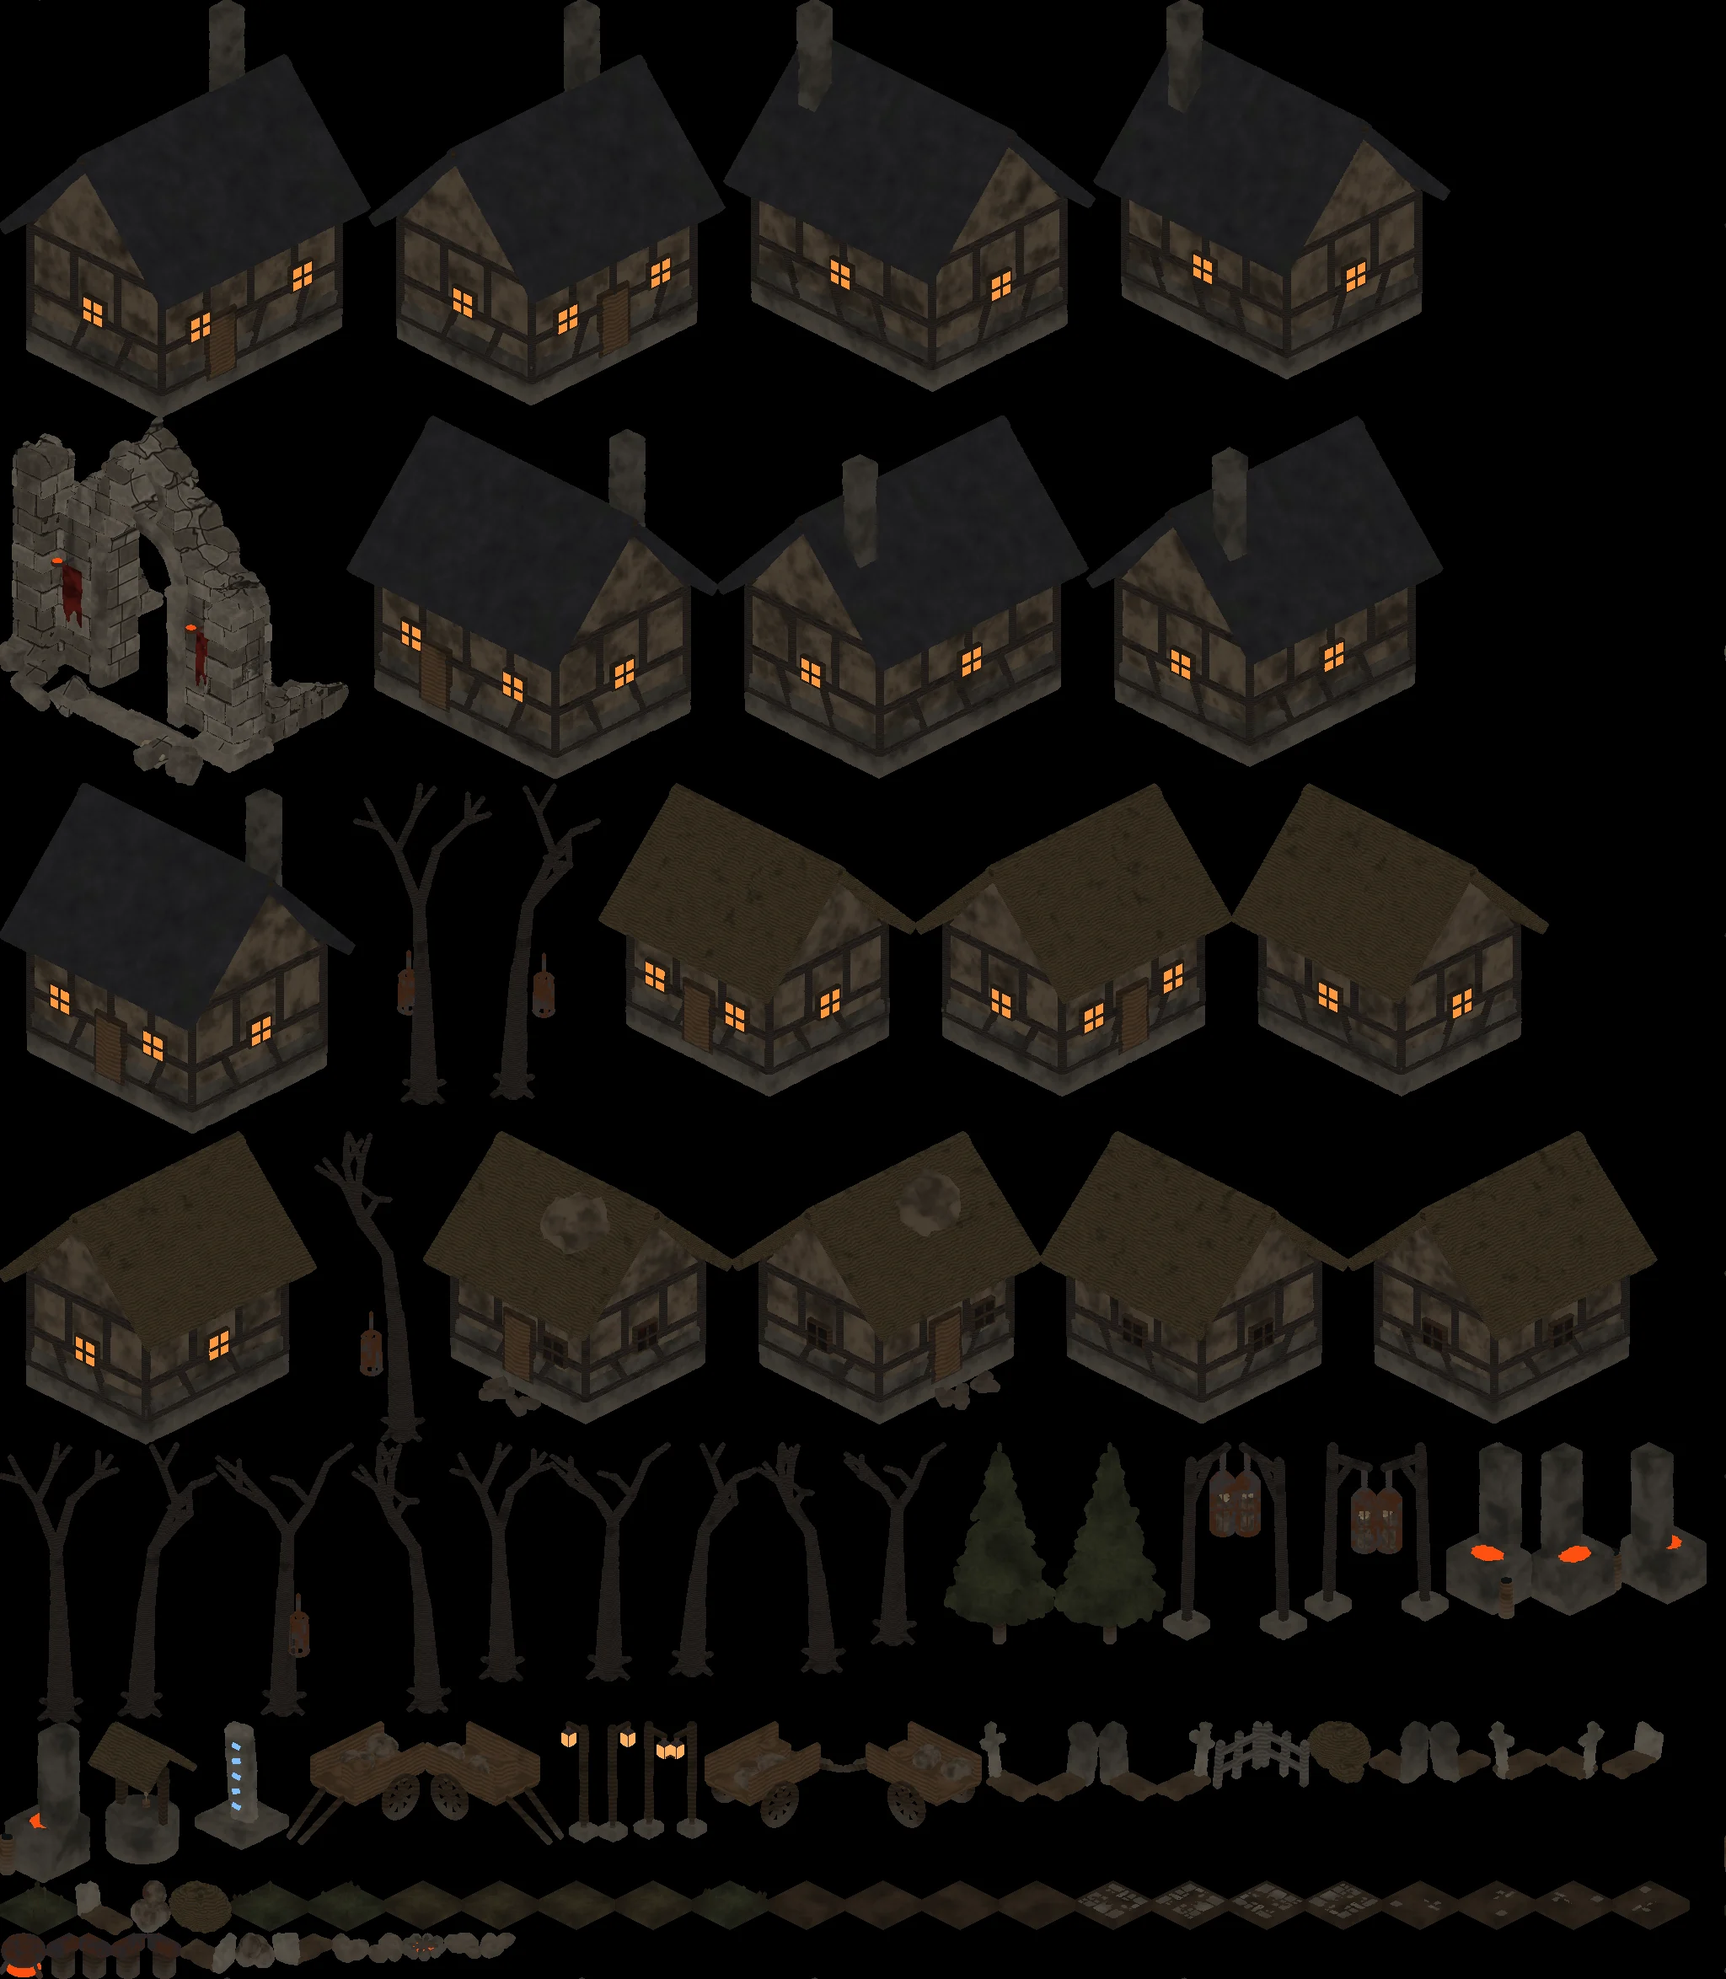
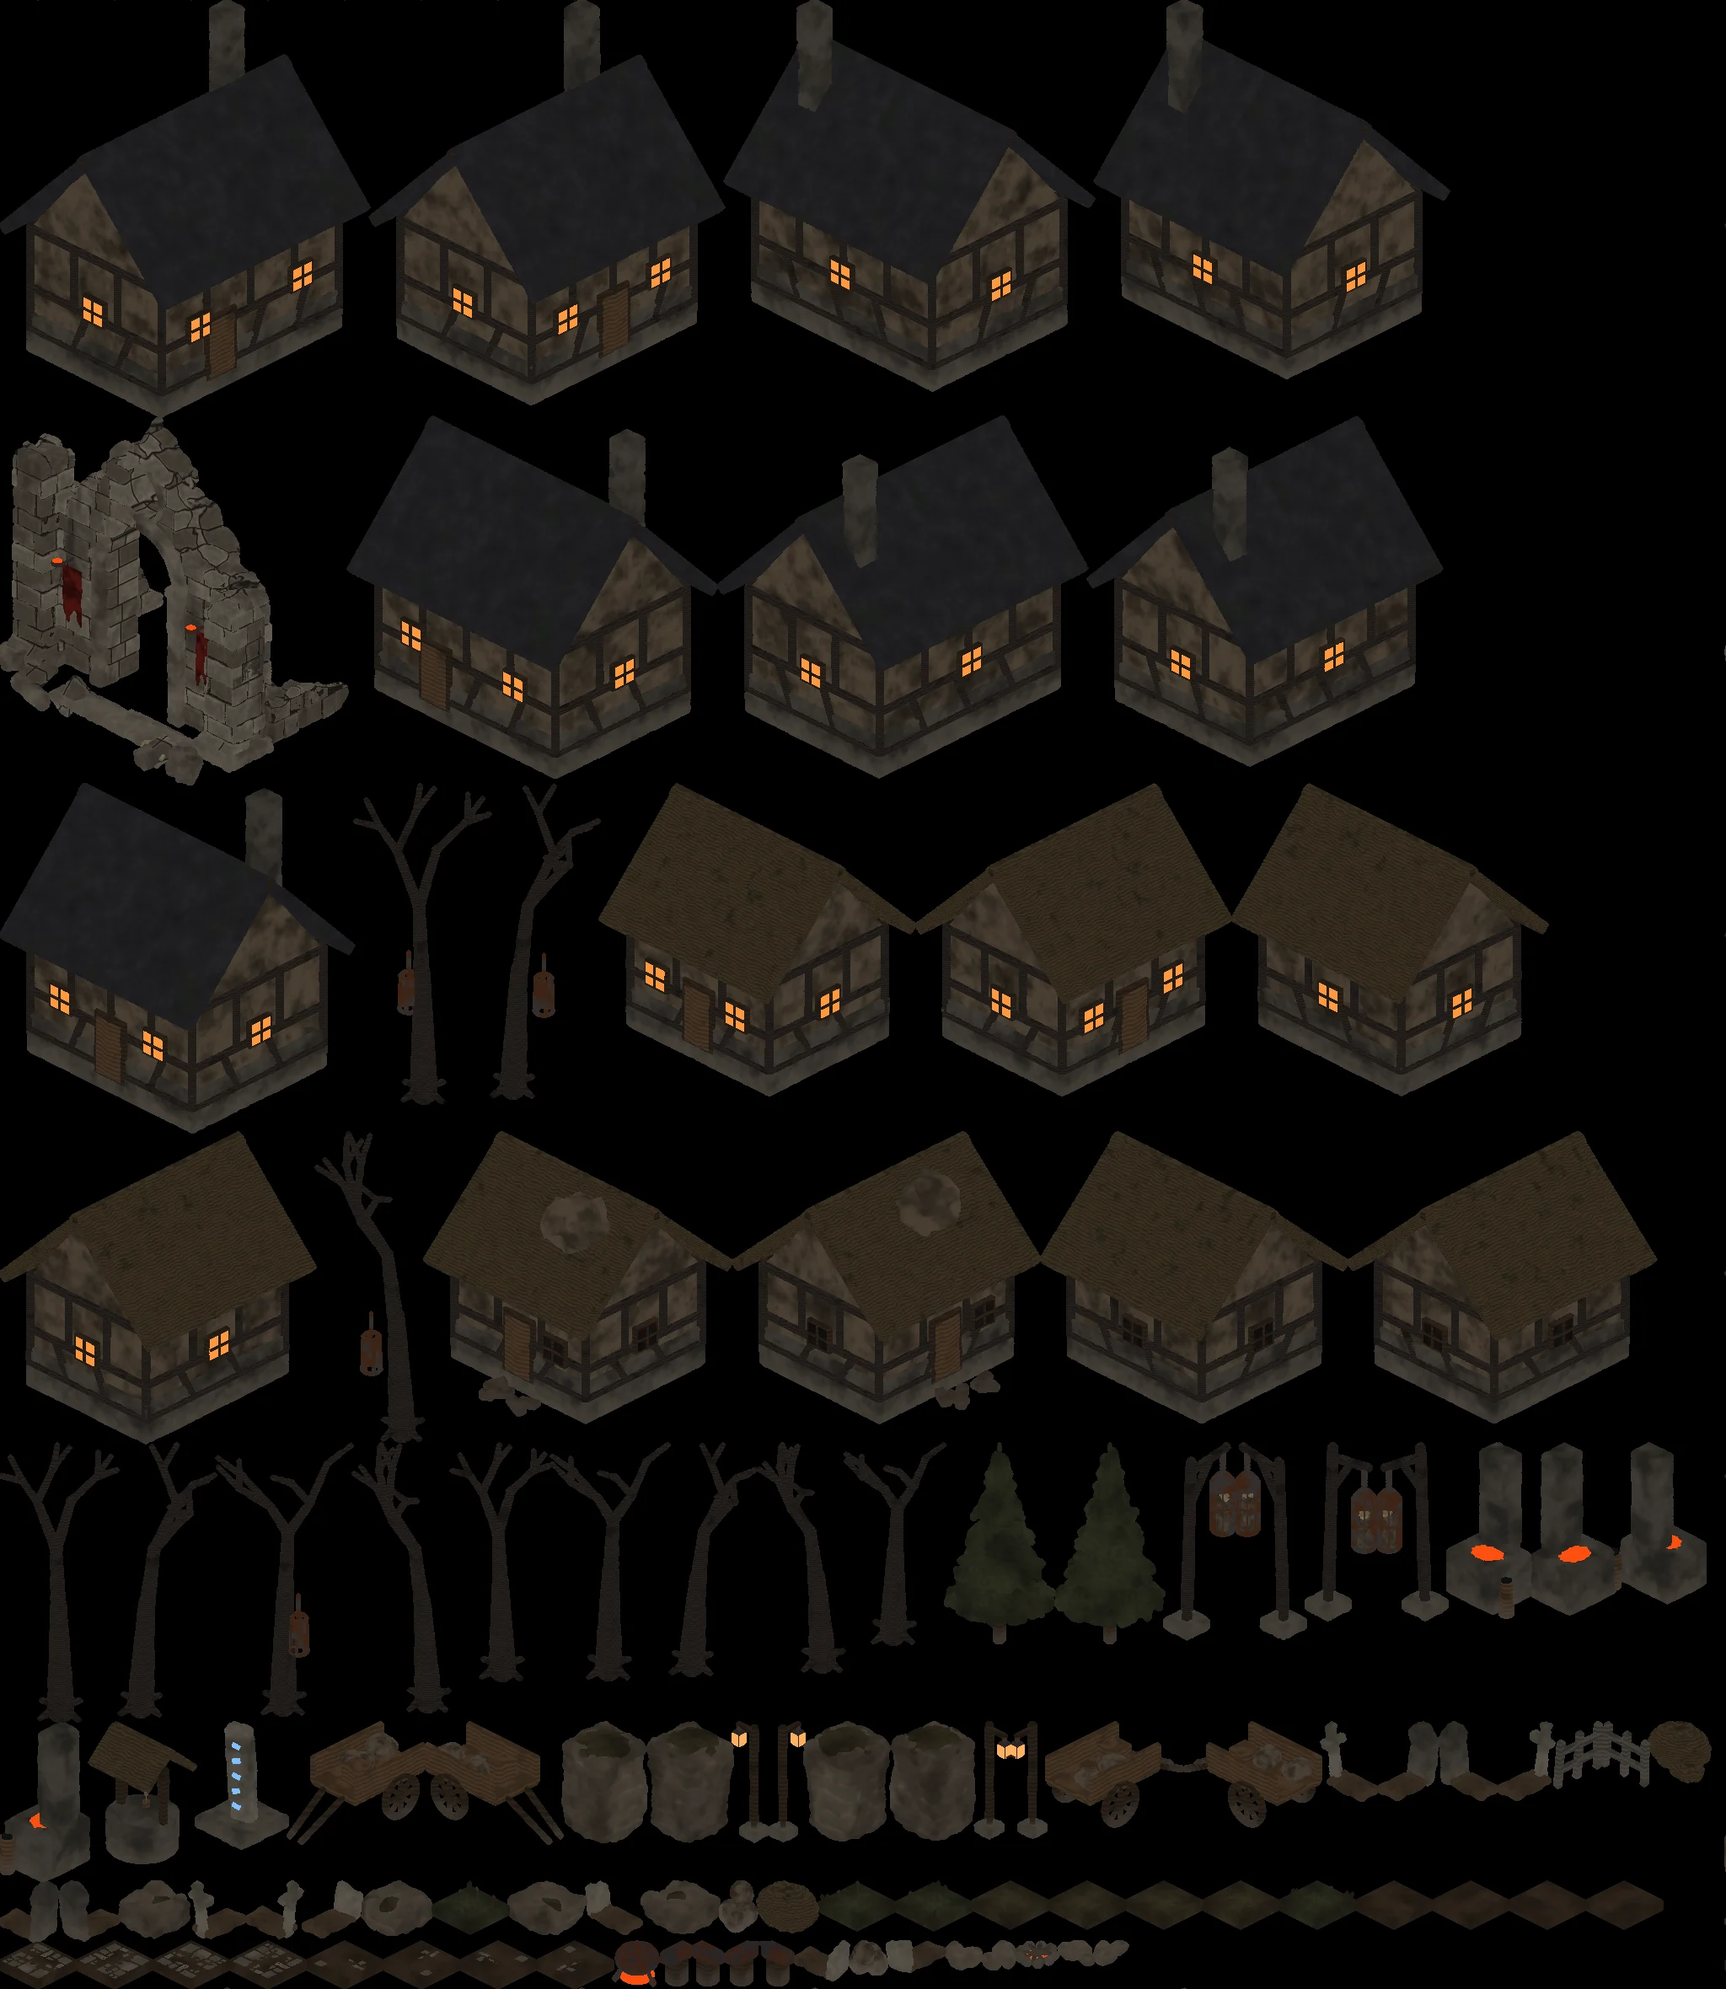
Ravenhollow 2026.11.11-214514: game files part 1
Claude-Session: https://claude.ai/code/session_016pcUSEpFhvC67ZhspsFvwM

diff --git a/game/assets/town_town.js b/game/assets/town_town.js
@@ -1,1 +1,1 @@
-META["town_town"]={"w":2048,"h":2348,"anims":{"grass":{"n":1,"loop":false,"anchor":[70,73],"dr":3,"cell":[140,156],"ndir":4,"frames":[[[457,2233,90,55,25,50]],[[548,2233,90,55,25,50]],[[639,2233,90,55,25,50]],[[730,2233,90,55,25,50]]],"dirs":[0,1,2,3],"ndirModel":4},"grass_b":{"n":1,"loop":false,"anchor":[70,73],"dr":3,"cell":[140,156],"ndir":4,"frames":[[[0,2233,90,61,25,44]],[[275,2233,90,57,25,48]],[[366,2233,90,57,25,48]],[[821,2233,90,55,25,50]]],"dirs":[0,1,2,3],"ndirModel":4},"mud":{"n":1,"loop":false,"anchor":[70,73],"dr":3,"cell":[140,156],"ndir":4,"frames":[[[912,2233,90,55,25,50]],[[1003,2233,90,55,25,50]],[[1094,2233,90,55,25,50]],[[1185,2233,90,55,25,50]]],"dirs":[0,1,2,3],"ndirModel":4},"cobble":{"n":1,"loop":false,"anchor":[70,73],"dr":3,"cell":[140,156],"ndir":4,"frames":[[[1276,2233,90,55,25,50]],[[1367,2233,90,55,25,50]],[[1458,2233,90,55,25,50]],[[1549,2233,90,55,25,50]]],"dirs":[0,1,2,3],"ndirModel":4},"cobble_edge":{"n":1,"loop":false,"anchor":[70,73],"dr":3,"cell":[140,156],"ndir":4,"frames":[[[1640,2233,90,55,25,50]],[[1731,2233,90,55,25,50]],[[1822,2233,90,55,25,50]],[[1913,2233,90,55,25,50]]],"dirs":[0,1,2,3],"ndirModel":4},"house_a":{"n":1,"loop":false,"anchor":[361,584],"dr":6,"cell":[722,900],"ndir":4,"frames":[[[0,931,420,412,151,259]],[[439,0,420,479,151,192]],[[1299,0,420,448,151,223]],[[1291,495,420,413,151,258]]],"extra":{"chimney":[1.6,5.050000000000001,-0.68]},"dirs":[0,1,2,3],"ndirModel":4},"house_b":{"n":1,"loop":false,"anchor":[318,519],"dr":6,"cell":[636,794],"ndir":4,"frames":[[[712,931,374,368,131,227]],[[1087,931,374,368,131,227]],[[1462,931,374,368,131,227]],[[0,1344,374,368,131,227]]],"dirs":[0,1,2,3],"ndirModel":4},"house_c":{"n":1,"loop":false,"anchor":[308,490],"dr":6,"cell":[616,756],"ndir":4,"frames":[[[504,1344,364,344,126,220]],[[869,1344,365,344,125,220]],[[1235,1344,364,343,126,220]],[[1600,1344,365,343,126,220]]],"dirs":[0,1,2,3],"ndirModel":4},"house_d":{"n":1,"loop":false,"anchor":[378,609],"dr":6,"cell":[756,942],"ndir":4,"frames":[[[413,495,438,427,159,273]],[[0,0,438,494,159,207]],[[860,0,438,463,159,238]],[[852,495,438,427,159,274]]],"extra":{"chimney":[1.7999999999999998,5.15,-0.68]},"dirs":[0,1,2,3],"ndirModel":4},"forge":{"n":1,"loop":false,"anchor":[122,228],"dr":3,"cell":[244,318],"ndir":4,"frames":[[[1718,1713,99,206,73,50]],[[1818,1713,105,202,73,49]],[[1924,1713,99,189,72,63]],[[0,2044,105,188,66,63]]],"extra":{"flames":[[0,0.95,0.05,1.2]],"light":[0,1.4,0.3,9,7]},"dirs":[0,1,2,3],"ndirModel":4},"anvil":{"n":1,"loop":false,"anchor":[47,75],"dr":3,"cell":[94,112],"ndir":4,"frames":[[[54,2295,39,51,26,30]],[[94,2295,39,51,29,30]],[[134,2295,39,51,29,30]],[[174,2295,39,51,26,30]]],"dirs":[0,1,2,3],"ndirModel":4},"well":{"n":1,"loop":false,"anchor":[111,217],"dr":3,"cell":[222,312],"ndir":1,"frames":[[[106,2044,126,166,48,71]]],"dirs":[0],"ndirModel":1},"waystone":{"n":1,"loop":false,"anchor":[99,171],"dr":3,"cell":[198,266],"ndir":1,"frames":[[[233,2044,108,149,45,48]]],"extra":{"light":[0.2,1.8,0.4,3,4.5]},"dirs":[0],"ndirModel":1},"cart":{"n":1,"loop":false,"anchor":[164,189],"dr":3,"cell":[328,294],"ndir":4,"frames":[[[342,2044,162,143,69,89]],[[505,2044,162,143,97,89]],[[838,2044,162,123,97,89]],[[1001,2044,162,123,69,89]]],"dirs":[0,1,2,3],"ndirModel":4},"sacks":{"n":1,"loop":false,"anchor":[45,67],"dr":3,"cell":[90,96],"ndir":2,"frames":[[[280,2295,44,38,20,29]],[[157,2233,44,59,26,22]]],"dirs":[0,1],"ndirModel":2},"hay":{"n":1,"loop":false,"anchor":[72,94],"dr":3,"cell":[144,150],"ndir":2,"frames":[[[1553,2044,72,70,36,46]],[[202,2233,72,59,36,45]]],"dirs":[0,1],"ndirModel":2},"cauldron":{"n":1,"loop":false,"anchor":[43,71],"dr":3,"cell":[92,114],"ndir":1,"frames":[[[0,2295,53,52,15,32]]],"extra":{"light":[0,0.8,0,2.5,3.5],"tint":[0.5,1,0.4]},"dirs":[0],"ndirModel":1},"lamp":{"n":1,"loop":false,"anchor":[109,192],"dr":3,"cell":[218,260],"ndir":4,"frames":[[[753,2044,42,137,92,63]],[[711,2044,41,140,93,59]],[[668,2044,42,141,84,59]],[[796,2044,41,136,84,63]]],"extra":{"light":[0.4,1.9,0,5,6.5],"glow":[0.4,1.92,0]},"dirs":[0,1,2,3],"ndirModel":4},"tomb0":{"n":1,"loop":false,"anchor":[77,107],"dr":3,"cell":[154,176],"ndir":4,"frames":[[[1232,2044,71,91,24,42]],[[1304,2044,69,91,60,42]],[[1696,2044,71,69,59,43]],[[1626,2044,69,70,25,42]]],"dirs":[0,1,2,3],"ndirModel":4},"tomb1":{"n":1,"loop":false,"anchor":[78,103],"dr":3,"cell":[156,174],"ndir":4,"frames":[[[1374,2044,66,91,25,38]],[[1164,2044,67,92,63,37]],[[1768,2044,66,66,65,40]],[[1835,2044,67,66,26,41]]],"dirs":[0,1,2,3],"ndirModel":4},"tomb2":{"n":1,"loop":false,"anchor":[77,79],"dr":3,"cell":[154,148],"ndir":4,"frames":[[[1903,2044,69,65,24,40]],[[91,2233,65,61,64,44]],[[325,2295,69,35,61,48]],[[214,2295,65,45,25,40]]],"dirs":[0,1,2,3],"ndirModel":4},"fence":{"n":1,"loop":false,"anchor":[74,106],"dr":3,"cell":[148,156],"ndir":2,"frames":[[[1497,2044,55,75,46,44]],[[1441,2044,55,77,46,43]]],"dirs":[0,1],"ndirModel":4},"tree0":{"n":1,"loop":false,"anchor":[114,297],"dr":4.5,"cell":[228,376],"ndir":4,"frames":[[[1003,1713,118,238,57,76]],[[795,1713,103,275,88,39]],[[535,1713,118,281,53,33]],[[899,1713,103,271,37,43]]],"dirs":[0,1,2,3],"ndirModel":4},"tree1":{"n":1,"loop":false,"anchor":[131,349],"dr":4.5,"cell":[262,438],"ndir":4,"frames":[[[654,1713,140,280,63,86]],[[141,1713,115,324,105,42]],[[0,1713,140,330,59,36]],[[419,1713,115,318,42,48]]],"dirs":[0,1,2,3],"ndirModel":4},"tree2":{"n":1,"loop":false,"anchor":[149,402],"dr":4.5,"cell":[298,498],"ndir":4,"frames":[[[257,1713,161,322,70,97]],[[583,931,128,372,123,47]],[[421,931,161,378,67,41]],[[375,1344,128,366,47,53]]],"dirs":[0,1,2,3],"ndirModel":4},"gibbet":{"n":1,"loop":false,"anchor":[175,307],"dr":4.5,"cell":[350,416],"ndir":4,"frames":[[[1550,1713,83,209,149,111]],[[1382,1713,83,232,149,88]],[[1466,1713,83,231,118,88]],[[1634,1713,83,209,118,111]]],"dirs":[0,1,2,3],"ndirModel":4},"pine":{"n":1,"loop":false,"anchor":[176,354],"dr":4,"cell":[352,450],"ndir":2,"frames":[[[1122,1713,129,236,112,121]],[[1252,1713,129,236,111,121]]],"dirs":[0,1],"ndirModel":2},"campfire":{"n":1,"loop":false,"anchor":[40,44],"dr":3,"cell":[82,80],"ndir":1,"frames":[[[477,2295,51,30,15,26]]],"extra":{"flames":[[0,0.1,0,1.8]],"light":[0,0.7,0,9,8]},"dirs":[0],"ndirModel":1},"rock":{"n":1,"loop":false,"anchor":[40,38],"dr":3,"cell":[80,68],"ndir":4,"frames":[[[395,2295,41,32,23,17]],[[437,2295,39,32,15,16]],[[529,2295,41,27,16,22]],[[571,2295,39,27,26,23]]],"dirs":[0,1,2,3],"ndirModel":4},"chapel":{"n":1,"loop":false,"anchor":[385,587],"dr":7,"cell":[772,886],"ndir":1,"frames":[[[0,495,412,435,214,252]]],"extra":{"flames":[[-1.75,2.5,0.52,0.8],[1.75,2.5,0.52,0.8]],"light":[0,2,1,6,6]},"dirs":[0],"ndirModel":1}}};
+META["town_town"]={"w":2048,"h":2360,"anims":{"grass":{"n":1,"loop":false,"anchor":[70,73],"dr":3,"cell":[140,156],"ndir":4,"frames":[[[1154,2233,90,55,25,50]],[[1245,2233,90,55,25,50]],[[1336,2233,90,55,25,50]],[[1427,2233,90,55,25,50]]],"dirs":[0,1,2,3],"ndirModel":4},"grass_b":{"n":1,"loop":false,"anchor":[70,73],"dr":3,"cell":[140,156],"ndir":4,"frames":[[[513,2233,90,61,25,44]],[[972,2233,90,57,25,48]],[[1063,2233,90,57,25,48]],[[1518,2233,90,55,25,50]]],"dirs":[0,1,2,3],"ndirModel":4},"mud":{"n":1,"loop":false,"anchor":[70,73],"dr":3,"cell":[140,156],"ndir":4,"frames":[[[1609,2233,90,55,25,50]],[[1700,2233,90,55,25,50]],[[1791,2233,90,55,25,50]],[[1882,2233,90,55,25,50]]],"dirs":[0,1,2,3],"ndirModel":4},"cobble":{"n":1,"loop":false,"anchor":[70,73],"dr":3,"cell":[140,156],"ndir":4,"frames":[[[0,2304,90,55,25,50]],[[91,2304,90,55,25,50]],[[182,2304,90,55,25,50]],[[273,2304,90,55,25,50]]],"dirs":[0,1,2,3],"ndirModel":4},"cobble_edge":{"n":1,"loop":false,"anchor":[70,73],"dr":3,"cell":[140,156],"ndir":4,"frames":[[[364,2304,90,55,25,50]],[[455,2304,90,55,25,50]],[[546,2304,90,55,25,50]],[[637,2304,90,55,25,50]]],"dirs":[0,1,2,3],"ndirModel":4},"cliff":{"n":1,"loop":false,"anchor":[114,183],"dr":3,"cell":[228,266],"ndir":4,"frames":[[[668,2044,99,141,66,65]],[[768,2044,101,141,63,66]],[[1057,2044,99,138,63,68]],[[955,2044,101,139,64,67]]],"dirs":[0,1,2,3],"ndirModel":4},"cliff_low":{"n":1,"loop":false,"anchor":[76,95],"dr":3,"cell":[152,168],"ndir":4,"frames":[[[604,2233,91,61,32,53]],[[142,2233,82,66,34,50]],[[762,2233,91,60,29,54]],[[430,2233,82,62,36,52]]],"dirs":[0,1,2,3],"ndirModel":4},"house_a":{"n":1,"loop":false,"anchor":[361,584],"dr":6,"cell":[722,900],"ndir":4,"frames":[[[0,931,420,412,151,259]],[[439,0,420,479,151,192]],[[1299,0,420,448,151,223]],[[1291,495,420,413,151,258]]],"extra":{"chimney":[1.6,5.050000000000001,-0.68]},"dirs":[0,1,2,3],"ndirModel":4},"house_b":{"n":1,"loop":false,"anchor":[318,519],"dr":6,"cell":[636,794],"ndir":4,"frames":[[[712,931,374,368,131,227]],[[1087,931,374,368,131,227]],[[1462,931,374,368,131,227]],[[0,1344,374,368,131,227]]],"dirs":[0,1,2,3],"ndirModel":4},"house_c":{"n":1,"loop":false,"anchor":[308,490],"dr":6,"cell":[616,756],"ndir":4,"frames":[[[504,1344,364,344,126,220]],[[869,1344,365,344,125,220]],[[1235,1344,364,343,126,220]],[[1600,1344,365,343,126,220]]],"dirs":[0,1,2,3],"ndirModel":4},"house_d":{"n":1,"loop":false,"anchor":[378,609],"dr":6,"cell":[756,942],"ndir":4,"frames":[[[413,495,438,427,159,273]],[[0,0,438,494,159,207]],[[860,0,438,463,159,238]],[[852,495,438,427,159,274]]],"extra":{"chimney":[1.7999999999999998,5.15,-0.68]},"dirs":[0,1,2,3],"ndirModel":4},"forge":{"n":1,"loop":false,"anchor":[122,228],"dr":3,"cell":[244,318],"ndir":4,"frames":[[[1718,1713,99,206,73,50]],[[1818,1713,105,202,73,49]],[[1924,1713,99,189,72,63]],[[0,2044,105,188,66,63]]],"extra":{"flames":[[0,0.95,0.05,1.2]],"light":[0,1.4,0.3,9,7]},"dirs":[0,1,2,3],"ndirModel":4},"anvil":{"n":1,"loop":false,"anchor":[47,75],"dr":3,"cell":[94,112],"ndir":4,"frames":[[[782,2304,39,51,26,30]],[[822,2304,39,51,29,30]],[[862,2304,39,51,29,30]],[[902,2304,39,51,26,30]]],"dirs":[0,1,2,3],"ndirModel":4},"well":{"n":1,"loop":false,"anchor":[111,217],"dr":3,"cell":[222,312],"ndir":1,"frames":[[[106,2044,126,166,48,71]]],"dirs":[0],"ndirModel":1},"waystone":{"n":1,"loop":false,"anchor":[99,171],"dr":3,"cell":[198,266],"ndir":1,"frames":[[[233,2044,108,149,45,48]]],"extra":{"light":[0.2,1.8,0.4,3,4.5]},"dirs":[0],"ndirModel":1},"cart":{"n":1,"loop":false,"anchor":[164,189],"dr":3,"cell":[328,294],"ndir":4,"frames":[[[342,2044,162,143,69,89]],[[505,2044,162,143,97,89]],[[1242,2044,162,123,97,89]],[[1405,2044,162,123,69,89]]],"dirs":[0,1,2,3],"ndirModel":4},"sacks":{"n":1,"loop":false,"anchor":[45,67],"dr":3,"cell":[90,96],"ndir":2,"frames":[[[1008,2304,44,38,20,29]],[[854,2233,44,59,26,22]]],"dirs":[0,1],"ndirModel":2},"hay":{"n":1,"loop":false,"anchor":[72,94],"dr":3,"cell":[144,150],"ndir":2,"frames":[[[1957,2044,72,70,36,46]],[[899,2233,72,59,36,45]]],"dirs":[0,1],"ndirModel":2},"cauldron":{"n":1,"loop":false,"anchor":[43,71],"dr":3,"cell":[92,114],"ndir":1,"frames":[[[728,2304,53,52,15,32]]],"extra":{"light":[0,0.8,0,2.5,3.5],"tint":[0.5,1,0.4]},"dirs":[0],"ndirModel":1},"lamp":{"n":1,"loop":false,"anchor":[109,192],"dr":3,"cell":[218,260],"ndir":4,"frames":[[[1157,2044,42,137,92,63]],[[913,2044,41,140,93,59]],[[870,2044,42,141,84,59]],[[1200,2044,41,136,84,63]]],"extra":{"light":[0.4,1.9,0,5,6.5],"glow":[0.4,1.92,0]},"dirs":[0,1,2,3],"ndirModel":4},"tomb0":{"n":1,"loop":false,"anchor":[77,107],"dr":3,"cell":[154,176],"ndir":4,"frames":[[[1636,2044,71,91,24,42]],[[1708,2044,69,91,60,42]],[[70,2233,71,69,59,43]],[[0,2233,69,70,25,42]]],"dirs":[0,1,2,3],"ndirModel":4},"tomb1":{"n":1,"loop":false,"anchor":[78,103],"dr":3,"cell":[156,174],"ndir":4,"frames":[[[1778,2044,66,91,25,38]],[[1568,2044,67,92,63,37]],[[225,2233,66,66,65,40]],[[292,2233,67,66,26,41]]],"dirs":[0,1,2,3],"ndirModel":4},"tomb2":{"n":1,"loop":false,"anchor":[77,79],"dr":3,"cell":[154,148],"ndir":4,"frames":[[[360,2233,69,65,24,40]],[[696,2233,65,61,64,44]],[[1053,2304,69,35,61,48]],[[942,2304,65,45,25,40]]],"dirs":[0,1,2,3],"ndirModel":4},"fence":{"n":1,"loop":false,"anchor":[74,106],"dr":3,"cell":[148,156],"ndir":2,"frames":[[[1901,2044,55,75,46,44]],[[1845,2044,55,77,46,43]]],"dirs":[0,1],"ndirModel":4},"tree0":{"n":1,"loop":false,"anchor":[114,297],"dr":4.5,"cell":[228,376],"ndir":4,"frames":[[[1003,1713,118,238,57,76]],[[795,1713,103,275,88,39]],[[535,1713,118,281,53,33]],[[899,1713,103,271,37,43]]],"dirs":[0,1,2,3],"ndirModel":4},"tree1":{"n":1,"loop":false,"anchor":[131,349],"dr":4.5,"cell":[262,438],"ndir":4,"frames":[[[654,1713,140,280,63,86]],[[141,1713,115,324,105,42]],[[0,1713,140,330,59,36]],[[419,1713,115,318,42,48]]],"dirs":[0,1,2,3],"ndirModel":4},"tree2":{"n":1,"loop":false,"anchor":[149,402],"dr":4.5,"cell":[298,498],"ndir":4,"frames":[[[257,1713,161,322,70,97]],[[583,931,128,372,123,47]],[[421,931,161,378,67,41]],[[375,1344,128,366,47,53]]],"dirs":[0,1,2,3],"ndirModel":4},"gibbet":{"n":1,"loop":false,"anchor":[175,307],"dr":4.5,"cell":[350,416],"ndir":4,"frames":[[[1550,1713,83,209,149,111]],[[1382,1713,83,232,149,88]],[[1466,1713,83,231,118,88]],[[1634,1713,83,209,118,111]]],"dirs":[0,1,2,3],"ndirModel":4},"pine":{"n":1,"loop":false,"anchor":[176,354],"dr":4,"cell":[352,450],"ndir":2,"frames":[[[1122,1713,129,236,112,121]],[[1252,1713,129,236,111,121]]],"dirs":[0,1],"ndirModel":2},"campfire":{"n":1,"loop":false,"anchor":[40,44],"dr":3,"cell":[82,80],"ndir":1,"frames":[[[1205,2304,51,30,15,26]]],"extra":{"flames":[[0,0.1,0,1.8]],"light":[0,0.7,0,9,8]},"dirs":[0],"ndirModel":1},"rock":{"n":1,"loop":false,"anchor":[40,38],"dr":3,"cell":[80,68],"ndir":4,"frames":[[[1123,2304,41,32,23,17]],[[1165,2304,39,32,15,16]],[[1257,2304,41,27,16,22]],[[1299,2304,39,27,26,23]]],"dirs":[0,1,2,3],"ndirModel":4},"chapel":{"n":1,"loop":false,"anchor":[385,587],"dr":7,"cell":[772,886],"ndir":1,"frames":[[[0,495,412,435,214,252]]],"extra":{"flames":[[-1.75,2.5,0.52,0.8],[1.75,2.5,0.52,0.8]],"light":[0,2,1,6,6]},"dirs":[0],"ndirModel":1}}};
